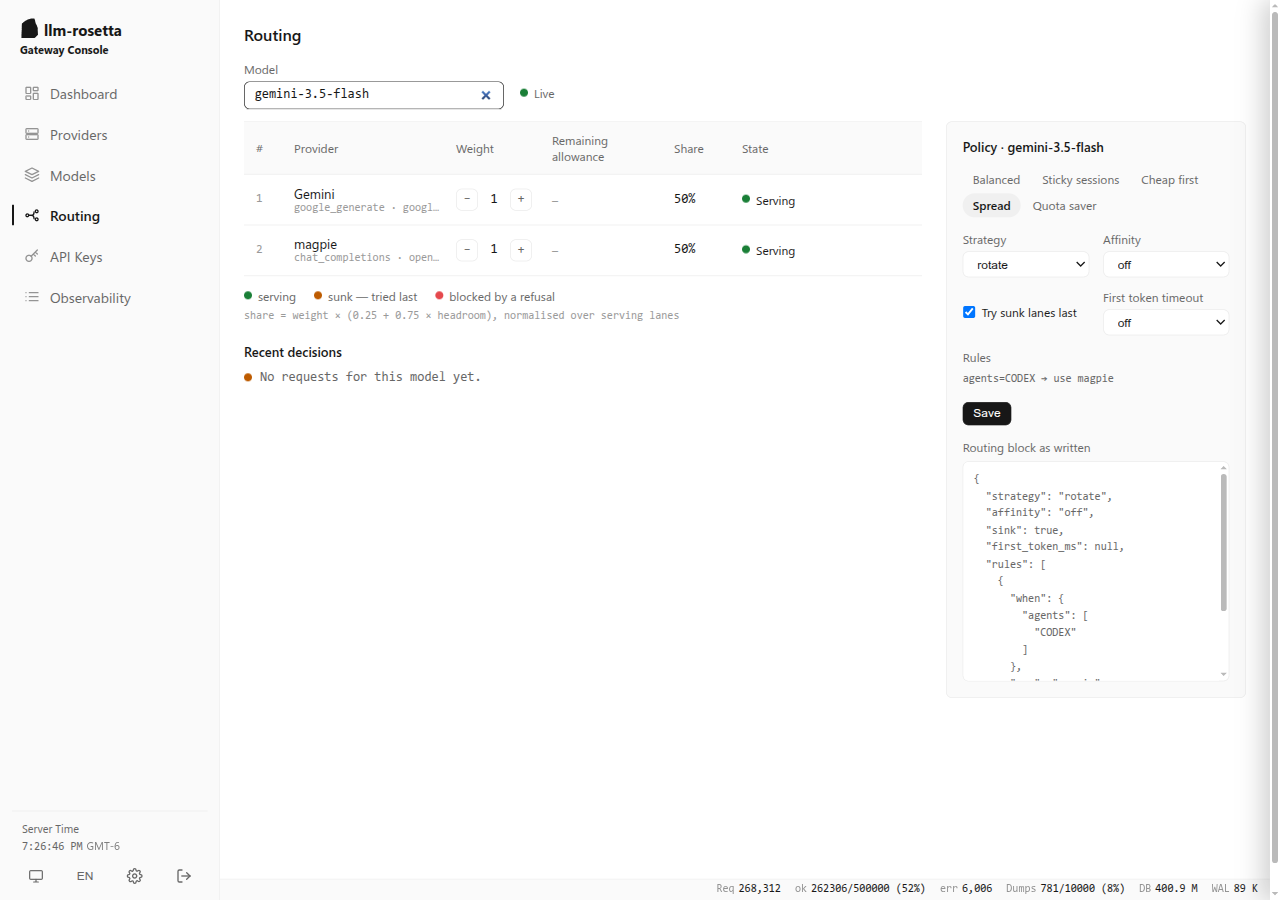
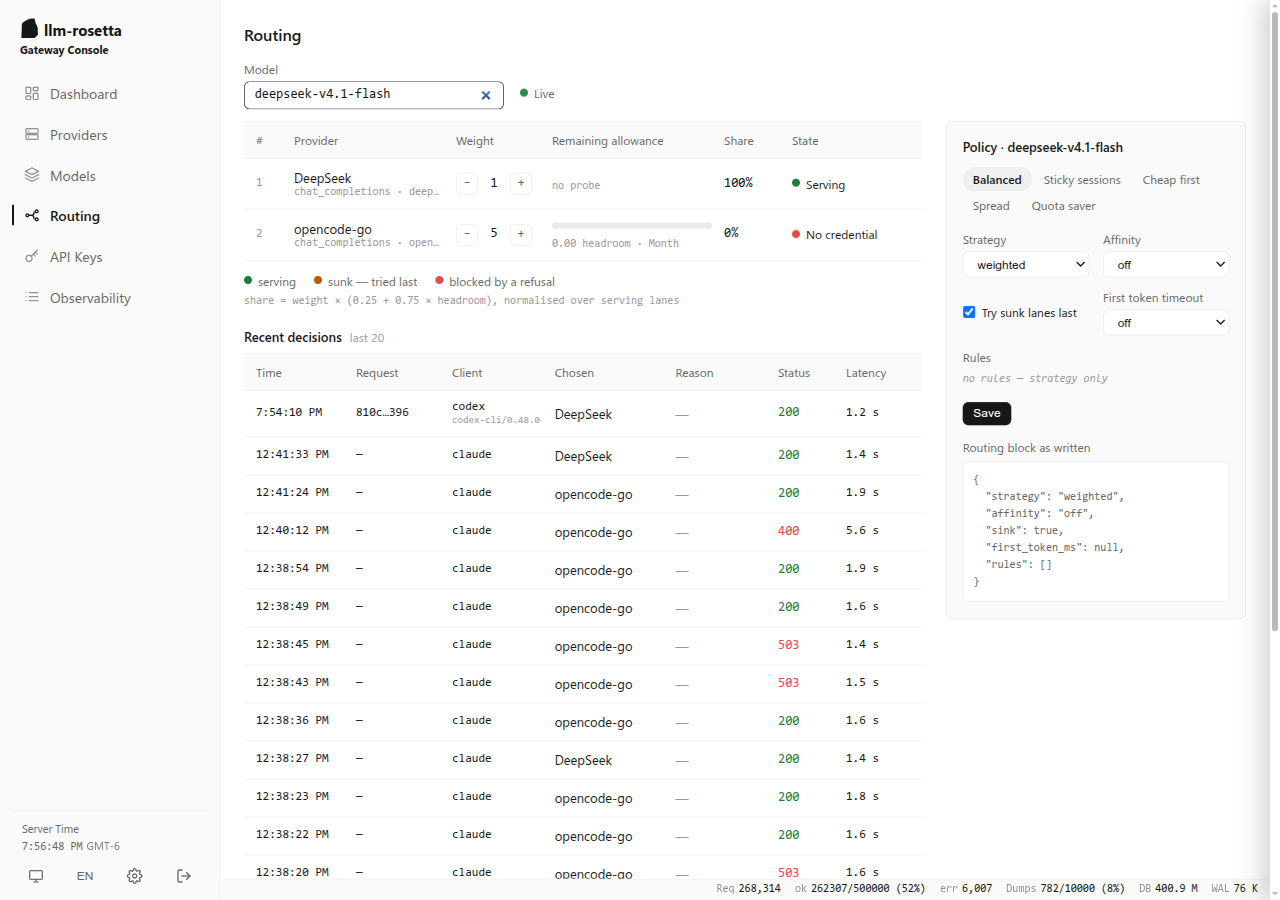
docs(admin): the allowance cell names its window, and a decision names its client

diff --git a/docs/changelog.md b/docs/changelog.md
@@ -12,7 +12,7 @@ All notable changes to LLM-Rosetta are documented here. This project follows [Ke
 - **Generated turns drive the streaming round trips** (epic [#1223](https://github.com/Oaklight/llm-rosetta/issues/1223), issue [#1314](https://github.com/Oaklight/llm-rosetta/issues/1314)): `tests/converters/test_stream_roundtrip.py` renders every turn of the leg-agreement table as the event sequence a stream of it would emit and drives it through all five dialects. Two properties: a second pass through a dialect changes nothing (`read(write(read(write(events)))) == read(write(events))`, 65 cells), and a detour through another dialect gives the turn back. Event sequences are not comparable across dialects, so the cross-format half compares the `TurnView` the leg-agreement harness defines. The harness had to be fixed before it measured anything: feeding chunks one at a time never closed the stream, so Chat's deferred `stream_end` never arrived and 55 of the first 103 differences were the probe. 37 cross-format differences remain, each recorded in `stream_roundtrip_losses.json` with its family's reason — a refusal that rides only on the finish event (8), the same words written into the text part (2), the terminal reason re-derived from the target's vocabulary (15), and calls the target cannot express: a freeform call becomes a function call and a server-tool call has no carrier (12). A fixed point alone is satisfied by a dialect that loses everything and then keeps losing it, so the suite also anchors the first pass to the turn it was given: 25 fields change there today, each recorded with its reason.
 - **Per-provider model overrides** (epic [#1322](https://github.com/Oaklight/llm-rosetta/issues/1322), issue [#1344](https://github.com/Oaklight/llm-rosetta/issues/1344)): a `providers[]` entry may declare its own `capabilities`, and the eligibility stage skips it for a request whose needs it does not cover — an image needs `vision`, a tool list needs `tools`, an effort needs `reasoning`. The mismatch is per request, so the same entry stays a candidate for everything else; an entry that declares nothing inherits the provider's capabilities, so a config without the field behaves exactly as before. When every candidate lacks the capability the route answers `400` and names it, because a retry cannot add one. The model drawer gains a capabilities field on each provider row (blank means inherit), validated by `POST /admin/api/config/models/<name>/update-provider` ([configuration](gateway/configuration.md#provider-capabilities)). The same change pins the continuous-429 tracker's reads to an injectable moment, fixing a test suite that judged a fixed timeline against the wall clock.
 - **Typed endpoints join the selector** (epic [#1322](https://github.com/Oaklight/llm-rosetta/issues/1322), issue [#1343](https://github.com/Oaklight/llm-rosetta/issues/1343)): an embedding, rerank or decision model may name several providers, but the typed pools kept only the first, so weights, quota and a spent first lane meant nothing to those routes. They now go through the same two stages the chat route starts with — eligibility, then the anchor over the declared weights — so a typed model serves its providers by weight and skips one the state removed (spent, blocked, or disabled by a run of 429s). A route with nothing left answers `503` (or `502` after a failed startup) with `Retry-After` when a reset is known, instead of `404`. With `failover_on_quota`, an upstream `429` moves the request to the next provider and counts against the same continuous-429 rule chat uses; the request is written to the ledger once, by the attempt that answers it. `<type>_models` still names the first provider, so the admin listing and the legacy sections are unchanged ([configuration](gateway/configuration.md#typed-routes)).
-- **Admin Routing panel** (epic [#1322](https://github.com/Oaklight/llm-rosetta/issues/1322), issue [#1342](https://github.com/Oaklight/llm-rosetta/issues/1342)): the console's **Routing** tab shows, for one model, what the selector decided — each candidate's state (`serving`, `sunk`, `blocked`, `rate_limited`, `spent`, `no_credential`, `initializing`), its configured weight, the share it serves at and its headroom, plus the last decisions from the request log. Every number comes from `GET /admin/api/routing/<model>`, so the browser never re-derives a routing decision, and the model picker is a search box over what the gateway can route (`GET /admin/api/routing`), and typing narrows it. The same tab writes the model's `routing` block through `PUT`, which rebuilds the config and runs the same parser as a load, so a bad value comes back as the parser's own message. Five presets — balanced, sticky sessions, cheap first, spread, quota saver — write literal blocks in the config's vocabulary, and a save keeps the keys the editor does not own (`rules`, `first_token_ms`). A block's end counts down per second and the board refetches when it expires ([admin panel](gateway/admin-panel.md#routing)).
+- **Admin Routing panel** (epic [#1322](https://github.com/Oaklight/llm-rosetta/issues/1322), issue [#1342](https://github.com/Oaklight/llm-rosetta/issues/1342)): the console's **Routing** tab shows, for one model, what the selector decided — each candidate's state (`serving`, `sunk`, `blocked`, `rate_limited`, `spent`, `no_credential`, `initializing`), its configured weight, the share it serves at and its remaining allowance — the tightest window a lane reports, named in the sub-line, cycled by a click when the lane reports several, and listed window by window with its reset time in the tooltip — plus the last decisions from the request log, each with the client's key label and the `User-Agent` it sent. Every number comes from `GET /admin/api/routing/<model>`, so the browser never re-derives a routing decision, and the model picker is a search box over what the gateway can route (`GET /admin/api/routing`), and typing narrows it. The same tab writes the model's `routing` block through `PUT`, which rebuilds the config and runs the same parser as a load, so a bad value comes back as the parser's own message. Five presets — balanced, sticky sessions, cheap first, spread, quota saver — write literal blocks in the config's vocabulary, and a save keeps the keys the editor does not own (`rules`, `first_token_ms`). A block's end counts down per second and the board refetches when it expires ([admin panel](gateway/admin-panel.md#routing)).
 - **Per-request rules** (epic [#1322](https://github.com/Oaklight/llm-rosetta/issues/1322), issue [#1341](https://github.com/Oaklight/llm-rosetta/issues/1341)): `models.<name>.routing.rules` moves one request within the model's own route — `{"when": {"images": true}, "use": "openrouter"}` promotes a provider, `{"when": {"time": {...}}, "pause": "argo"}` drops one for that request. Conditions are `images`, `tokens_gte`, `effort_gte`, `agents` and `time`; every condition in one `when` must hold, the first matching rule wins, and a request no rule matches falls through to the strategy. Rules run after the anchor is chosen, so they compose with the same-format tiers, and they read the request's **IR** rather than the source body, so one rule means the same thing whichever dialect the client spoke. A rule may only name a provider the model already lists — naming anyone else fails the load, as does an unknown condition key. Two facts are documented approximations: `tokens_gte` compares against the serialized IR's size over four (image payloads excluded), because the gateway has no tokenizer, and `agents` matches the client's `x-rosetta-agent` tags and `User-Agent` by case-insensitive substring. A model with no rules pays nothing: the IR is built for rule evaluation only when the model has at least one ([configuration](gateway/configuration.md#rules)).
 - **A model's routing block** (epic [#1322](https://github.com/Oaklight/llm-rosetta/issues/1322), issue [#1340](https://github.com/Oaklight/llm-rosetta/issues/1340)): `models.<name>.routing` now says how a model's providers are chosen between — `strategy`, `affinity`, `sink`, `first_token_ms` and `rules` — and it is the only place that says so. It is parsed once when the config is built, by the same function the admin save path runs, so an unknown key fails the load and the save with the same message. Five strategies: `weighted` (the default, and today's behaviour), `ordered` (the first eligible provider always), `rotate` (plain round-robin, weights ignored), `least_used` (fewest requests served since the route was built), and `pace` (weighted round-robin over the remaining allowance alone, ignoring the configured weight). `affinity` is `off` or `session`; `session` keeps one client on one provider and is only allowed with `weighted`, because the identity replaces the per-request choice. `sink` decides whether a recent 429 orders that model's provider last — the provider's *disable* stays process-wide. The pre-block `strategy` field is still read (`affinity_round_robin` becomes `affinity: "session"`), and naming both `strategy` and `routing` is an error rather than a precedence rule. `turn` and `strict` are documented but not implemented; the load refuses them by name instead of accepting a value that would do nothing, and a non-empty `rules` list is refused until the rules land ([configuration](gateway/configuration.md#routing-strategy)).
 - **A run of 429s takes a lane out of rotation** (epic [#1322](https://github.com/Oaklight/llm-rosetta/issues/1322), issue [#1339](https://github.com/Oaklight/llm-rosetta/issues/1339)): a new top-level `routing.rate_limit` block decides what continuous refusals do, for every lane — including a provider with no quota probe, which used to answer 429 and be retried next time as if nothing had happened. The first refusal **sinks** the provider (it moves to the back of the order but stays a candidate, so a route with nothing else still serves); `after` refusals within `window_s` **disable** it for `cooldown_s`, doubling on each repeat up to `cooldown_max_s`; a success clears the count, the ladder and the sink. Defaults are `{"sink": true, "after": 3, "window_s": 300, "cooldown_s": 60, "cooldown_max_s": 900}`, and a malformed block fails the config load rather than the first request. Refusals are counted per provider *and* per credential — a 429 names the credential that earned it when the lane has keys, and the provider when it does not — and a provider with one disabled credential and one working one stays in rotation, with the key ring skipping the disabled one. The state lives beside the quota block (`quota/state.py`), is not persisted, and is read — never written — by the selector. The provider card's quota button shows both states: the live block as "skipped until … — repeated 429s", and a sunk provider as "tried last — a recent 429 sank it without taking it out" ([quota](guide/quota.md#continuous-429s)).

diff --git a/docs/gateway/admin-panel.md b/docs/gateway/admin-panel.md
@@ -118,8 +118,10 @@ The **Routing** section answers one question per model: which lane serves it, an
 
 - **Board** — the route in the order the selector reads it: each candidate's position, the lane and the wire format and shim behind it, a weight stepper that writes the model entry, the remaining allowance, the share it serves at, and the state with its countdown.
 - **Legend** — names the three dots (**serving**, **sunk**, **blocked by a refusal**) and the share formula: weight × (0.25 + 0.75 × headroom), normalised over the serving lanes.
-- **Decisions** — the last requests for this model from the request log: time, request id, client, chosen lane, any failover hop, status and latency.
+- **Decisions** — the last requests for this model from the request log: time, request id, client, chosen lane, any failover hop, status and latency. The client cell shows the API key's label with the `User-Agent` the request sent beneath it, so a row names the program that made the request, not only the key it used.
 - **Policy** — the model's `routing` block in a card beside the board: five presets as chips (**Balanced**, **Sticky sessions**, **Cheap first**, **Spread**, **Quota saver**), strategy and affinity, the sunk-lane switch, the first-token timeout, the rules as written, and the block as JSON. A preset writes the literal block an operator could have typed; a block that is no preset leaves every chip unpressed.
+
+The remaining-allowance cell reports the window the lane is closest to exhausting, and names it in the sub-line (for example `0.00 headroom · Month`). Clicking the cell cycles through the windows the lane reports, and the tooltip lists every window with its remaining percentage and reset time. A provider with no quota probe reads **no probe**, and a probe with no reading yet reads **not measured**; either way the lane keeps its configured weight, because the share formula reads an unmeasured headroom as no penalty.
 
 States follow the eligibility predicate, so the panel and the proxy agree by construction:
 
